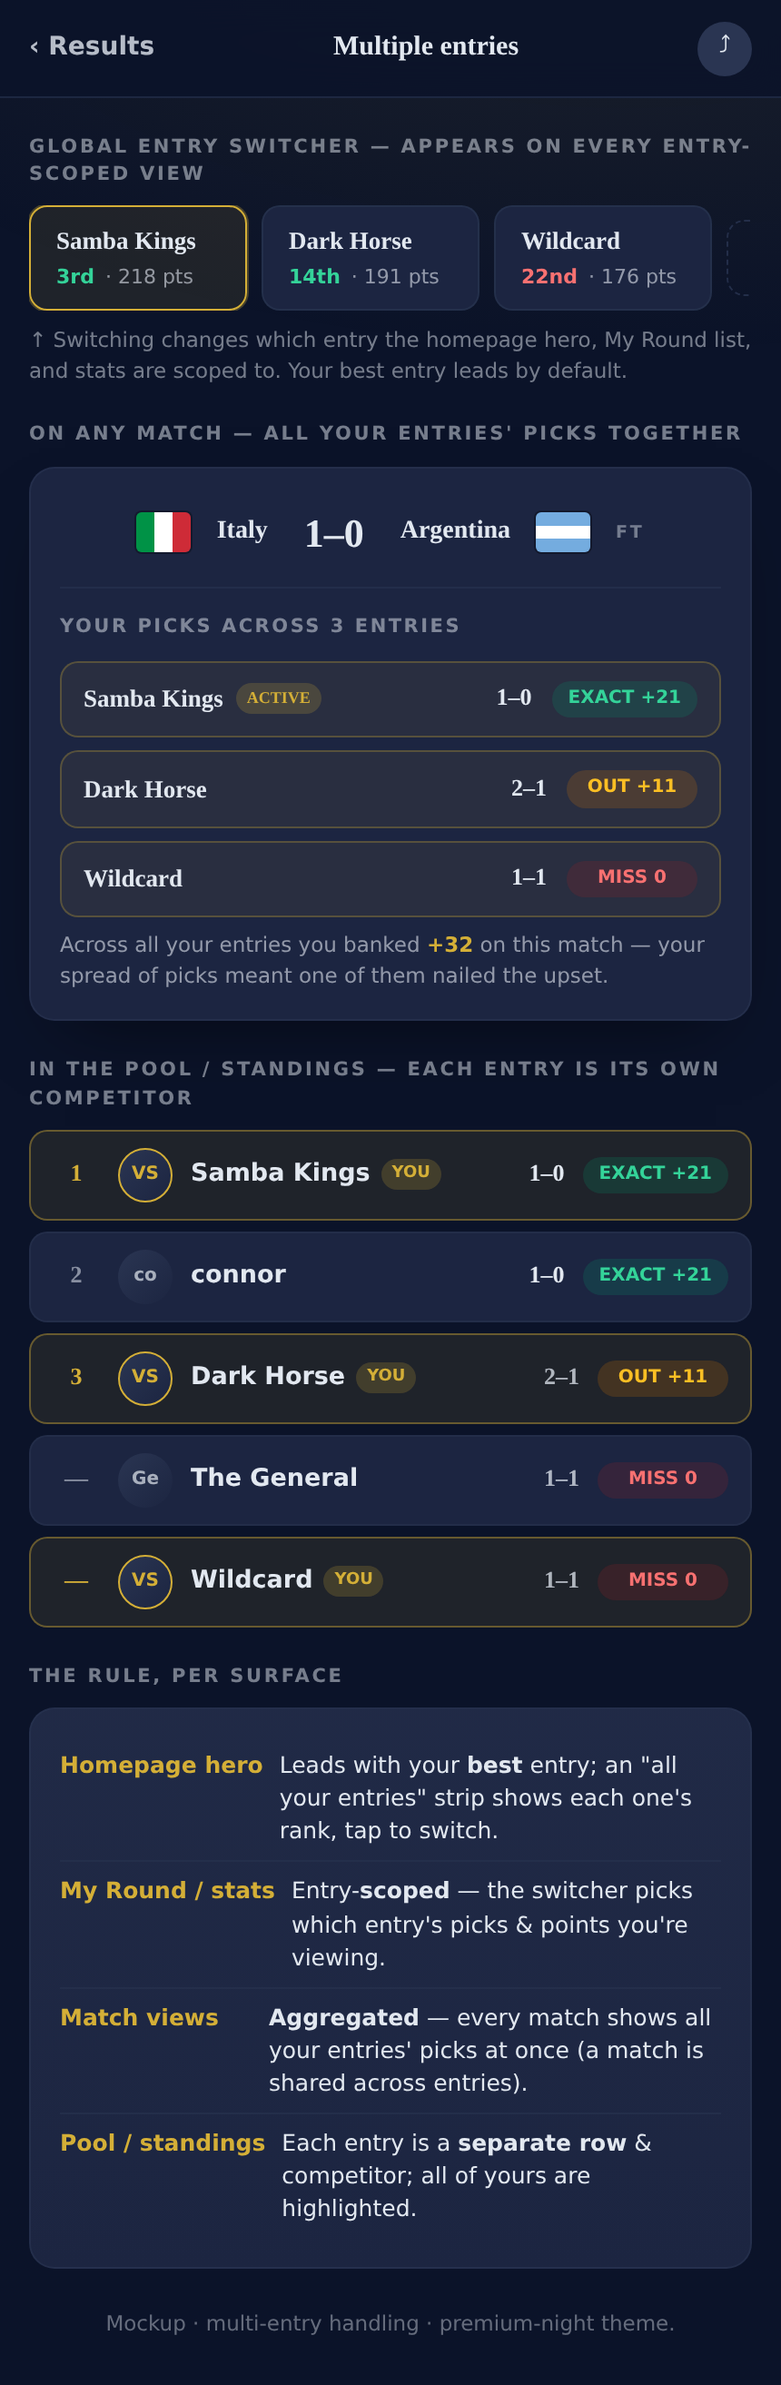
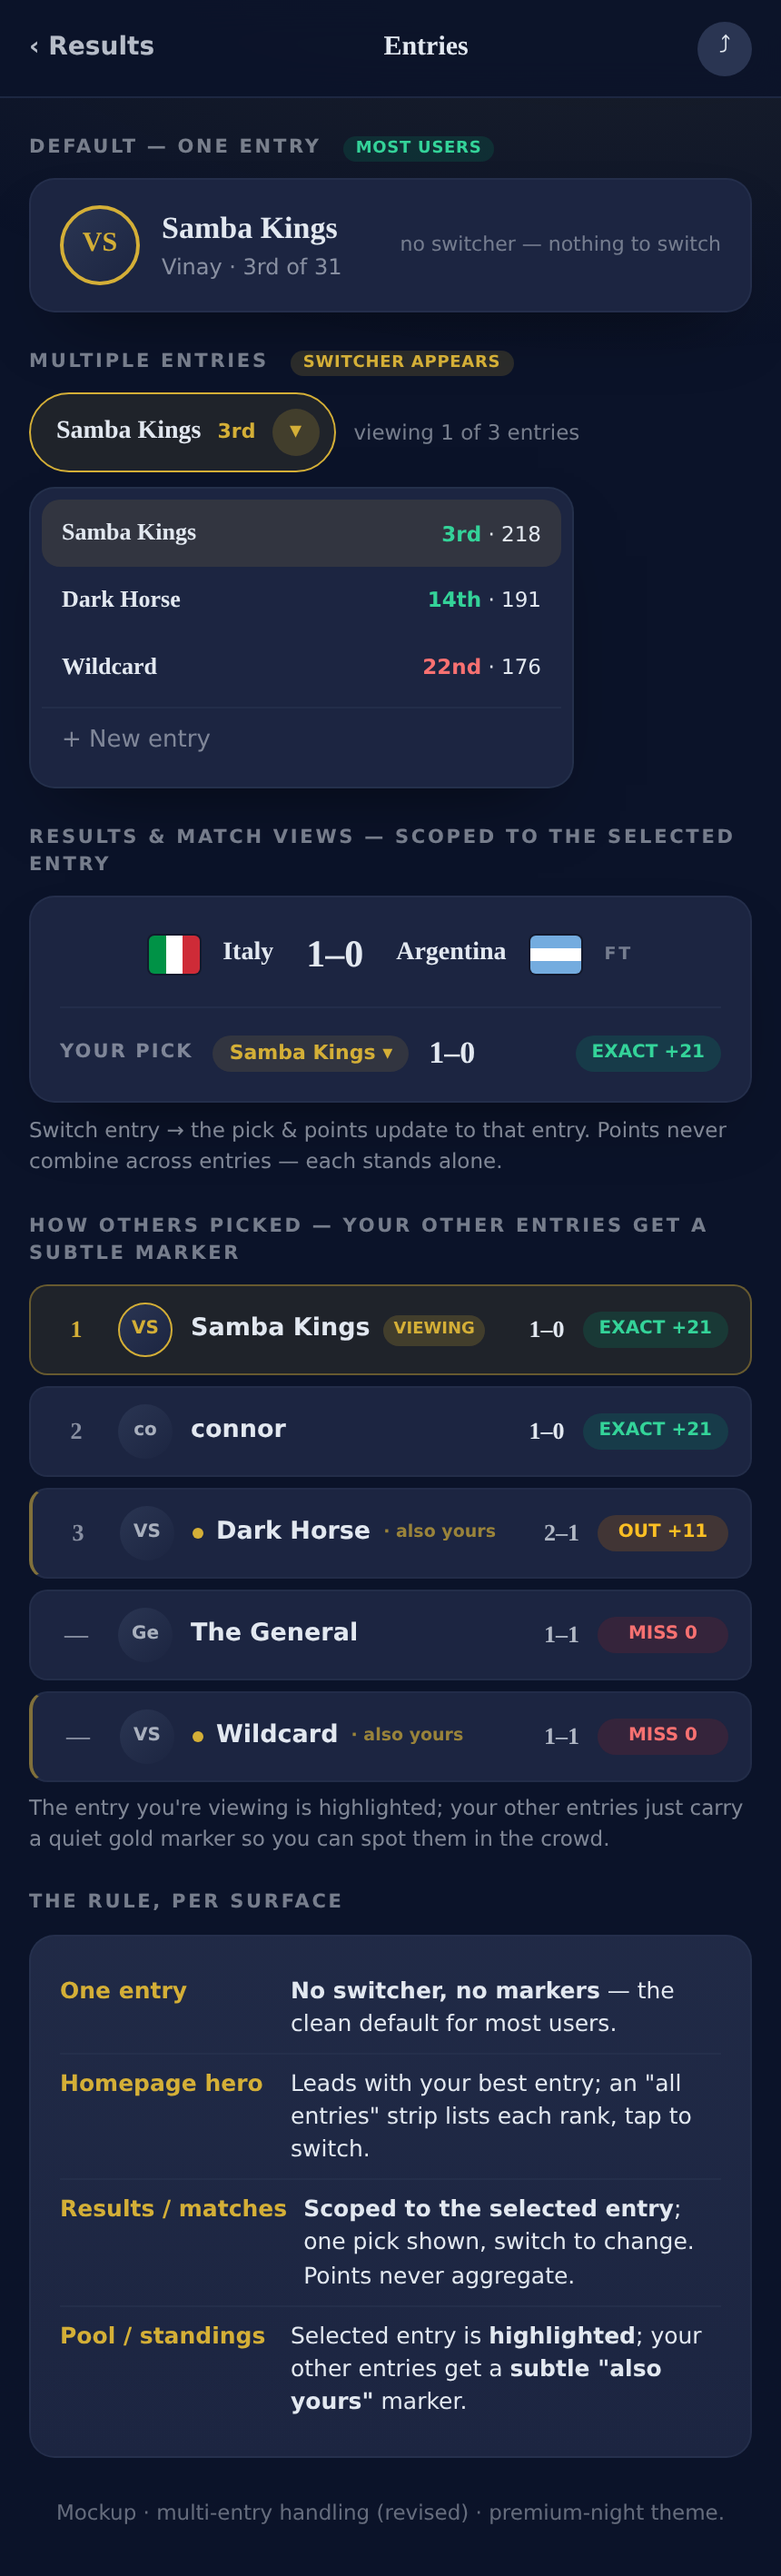
docs: revise multi-entry handling per feedback
Single entry is the clean default (no switcher/markers via
isSingleEntryMode). Points never aggregate. Results/match views are
scoped to a selected entry with an easy switcher. In the pool, the
viewed entry is highlighted while your other entries get only a subtle
'also yours' marker.

https://claude.ai/code/session_014fRmQ6eVNFy7joCpvavqqK

diff --git a/docs/homepage-mockups/multi-entry.html b/docs/homepage-mockups/multi-entry.html
@@ -1,11 +1,13 @@
 <!DOCTYPE html>
-<!-- Mockup ONLY — how MULTIPLE ENTRIES per user resolve across the views.
-     Shows: a global entry switcher, a "your picks across entries" cluster on
-     a match, and the pool list with ALL your entries highlighted (each entry
-     is its own competitor). premium-night tokens + house fonts. -->
+<!-- Mockup ONLY — multi-entry handling, REVISED.
+     Single entry is the default (no switcher). Points never aggregate —
+     each entry is its own competitor. Results are scoped to a SELECTED
+     entry with easy switching. When viewing how others picked, your OTHER
+     entries get a subtle "also yours" marker, not the loud YOU highlight.
+     premium-night tokens + house fonts. -->
 <html lang="en"><head>
 <meta charset="utf-8" /><meta name="viewport" content="width=device-width, initial-scale=1" />
-<title>Multi-entry handling (mockup)</title>
+<title>Multi-entry handling — revised (mockup)</title>
 <link rel="preconnect" href="https://fonts.googleapis.com" /><link rel="preconnect" href="https://fonts.gstatic.com" crossorigin />
 <link href="https://fonts.googleapis.com/css2?family=Manrope:wght@400;500;600;700;800&family=Inter:wght@400;500;600;700&family=JetBrains+Mono:wght@500;700&display=swap" rel="stylesheet" />
 <link rel="stylesheet" href="flags.css" />
@@ -25,102 +27,125 @@
   .appbar .back{font-size:14px;font-weight:600;opacity:.8;} .appbar .ttl{font-family:'Manrope';font-weight:800;font-size:15px;} .appbar .ic{width:30px;height:30px;border-radius:50%;background:var(--base-300);display:grid;place-items:center;font-size:13px;}
 
   .label{font-size:10.5px;letter-spacing:.13em;text-transform:uppercase;font-weight:700;color:color-mix(in srgb,var(--content) 50%,transparent);margin:20px 0 9px;}
+  .label .tag{font-size:9px;font-weight:800;background:rgba(5,150,105,.18);color:#34d399;padding:2px 7px;border-radius:999px;margin-left:7px;letter-spacing:.04em;}
+  .label .tag.alt{background:rgba(212,175,55,.16);color:var(--primary);}
 
-  /* 1. global entry switcher */
-  .switcher{display:flex;gap:8px;overflow:hidden;align-items:center;}
-  .echip{flex:none;display:flex;flex-direction:column;gap:2px;padding:9px 14px;border-radius:var(--btn);background:var(--base-200);border:1px solid color-mix(in srgb,var(--base-300) 65%,transparent);min-width:120px;}
-  .echip.active{border-color:var(--primary);background:rgba(212,175,55,.1);box-shadow:0 0 0 1px rgba(212,175,55,.3);}
-  .echip .en{font-family:'Manrope';font-weight:800;font-size:13.5px;}
-  .echip .er{font-size:11px;color:color-mix(in srgb,var(--content) 60%,transparent);display:flex;align-items:center;gap:6px;}
-  .echip .up{color:#34d399;font-weight:700;} .echip .dn{color:#f87171;font-weight:700;}
-  .eadd{flex:none;width:42px;height:42px;border-radius:var(--btn);border:1px dashed color-mix(in srgb,var(--base-300) 80%,transparent);display:grid;place-items:center;color:color-mix(in srgb,var(--content) 45%,transparent);font-size:20px;}
-  .scope-note{font-size:11.5px;color:color-mix(in srgb,var(--content) 50%,transparent);margin-top:8px;display:flex;align-items:center;gap:6px;}
+  .card{background:var(--base-200);border:1px solid color-mix(in srgb,var(--base-300) 60%,transparent);border-radius:var(--box);padding:14px 16px;box-shadow:var(--card-shadow);}
 
-  /* card */
-  .card{background:var(--base-200);border:1px solid color-mix(in srgb,var(--base-300) 60%,transparent);border-radius:var(--box);padding:16px;box-shadow:var(--card-shadow);}
+  /* default single-entry header (no switcher) */
+  .who{display:flex;align-items:center;gap:12px;}
+  .who .ph{width:44px;height:44px;border-radius:50%;background:linear-gradient(135deg,#2a3552,#1c2541);border:2px solid var(--primary);display:grid;place-items:center;font-family:'Manrope';font-weight:800;color:var(--primary);font-size:15px;flex:none;}
+  .who .nm{font-family:'Manrope';font-weight:800;font-size:17px;}
+  .who .sub{font-size:12px;}
+  .who .single{margin-left:auto;font-size:11px;color:color-mix(in srgb,var(--content) 45%,transparent);}
 
-  /* mini scoreline */
-  .mini-score{display:flex;align-items:center;justify-content:center;gap:14px;padding:4px 0 14px;border-bottom:1px solid color-mix(in srgb,var(--base-300) 55%,transparent);margin-bottom:14px;}
-  .mini-score .fi{width:30px;height:22px;border-radius:3px;box-shadow:0 0 0 1px rgba(0,0,0,.3);}
+  /* entry switch control (multi) */
+  .entrybar{display:flex;align-items:center;gap:10px;}
+  .entrybar .cur{display:flex;align-items:center;gap:9px;background:rgba(212,175,55,.1);border:1px solid var(--primary);border-radius:999px;padding:8px 8px 8px 14px;}
+  .entrybar .cur .en{font-family:'Manrope';font-weight:800;font-size:14px;}
+  .entrybar .cur .rk{font-size:11px;color:var(--primary);font-weight:700;}
+  .entrybar .cur .sw{width:26px;height:26px;border-radius:50%;background:rgba(212,175,55,.2);display:grid;place-items:center;color:var(--primary);font-size:13px;}
+  .entrybar .count{font-size:11.5px;color:color-mix(in srgb,var(--content) 50%,transparent);}
+  /* dropdown preview */
+  .dd{margin-top:8px;background:var(--base-200);border:1px solid color-mix(in srgb,var(--base-300) 65%,transparent);border-radius:var(--box);padding:6px;box-shadow:var(--card-shadow);max-width:300px;}
+  .ddrow{display:flex;align-items:center;justify-content:space-between;padding:9px 11px;border-radius:var(--btn);font-size:13px;}
+  .ddrow.on{background:rgba(212,175,55,.12);} .ddrow .en{font-family:'Manrope';font-weight:700;} .ddrow .rk{font-size:11.5px;}
+  .ddrow .up{color:#34d399;font-weight:700;} .ddrow .dn{color:#f87171;font-weight:700;}
+  .ddrow.add{color:color-mix(in srgb,var(--content) 50%,transparent);border-top:1px solid color-mix(in srgb,var(--base-300) 50%,transparent);margin-top:3px;border-radius:0;}
+
+  /* match row (entry-scoped single pick) */
+  .mini-score{display:flex;align-items:center;justify-content:center;gap:13px;padding:2px 0 13px;border-bottom:1px solid color-mix(in srgb,var(--base-300) 55%,transparent);margin-bottom:13px;}
+  .mini-score .fi{width:28px;height:21px;border-radius:3px;box-shadow:0 0 0 1px rgba(0,0,0,.3);}
   .mini-score .t{font-family:'Manrope';font-weight:700;font-size:14px;}
-  .mini-score .sc{font-family:'Manrope';font-weight:800;font-size:22px;padding:0 6px;}
+  .mini-score .sc{font-family:'Manrope';font-weight:800;font-size:21px;padding:0 5px;}
   .mini-score .ft{font-size:9.5px;letter-spacing:.14em;font-weight:700;color:color-mix(in srgb,var(--content) 45%,transparent);}
-
-  /* your picks across entries */
-  .yourpicks .h{font-size:10.5px;letter-spacing:.12em;text-transform:uppercase;font-weight:700;color:color-mix(in srgb,var(--content) 50%,transparent);margin-bottom:10px;}
-  .epick{display:grid;grid-template-columns:1fr auto auto;gap:11px;align-items:center;padding:10px 12px;border-radius:var(--btn);background:rgba(212,175,55,.07);border:1px solid rgba(212,175,55,.28);margin-bottom:7px;}
-  .epick .en{font-family:'Manrope';font-weight:700;font-size:13.5px;display:flex;align-items:center;gap:7px;}
-  .badge-you{font-size:9px;font-weight:800;background:rgba(212,175,55,.2);color:var(--primary);padding:2px 6px;border-radius:999px;}
-  .epick .pk{font-family:'JetBrains Mono';font-weight:700;font-size:13px;}
-  .mini-pill{font-size:10px;font-weight:800;border-radius:999px;padding:3px 9px;min-width:72px;text-align:center;}
+  .yp{display:flex;align-items:center;gap:11px;}
+  .yp .lab{font-size:10.5px;letter-spacing:.1em;text-transform:uppercase;font-weight:700;color:color-mix(in srgb,var(--content) 50%,transparent);}
+  .yp .scoped{font-size:11px;color:var(--primary);font-weight:700;background:rgba(212,175,55,.12);padding:2px 9px;border-radius:999px;}
+  .yp .pk{font-family:'Manrope';font-weight:800;font-size:17px;}
+  .mini-pill{font-size:10px;font-weight:800;border-radius:999px;padding:3px 9px;min-width:72px;text-align:center;margin-left:auto;}
   .mini-pill.exact{background:rgba(5,150,105,.2);color:#34d399;} .mini-pill.out{background:rgba(217,119,6,.2);color:#fbbf24;} .mini-pill.miss{background:rgba(185,28,28,.16);color:#f87171;}
-  .combined{font-size:11.5px;margin-top:4px;color:color-mix(in srgb,var(--content) 60%,transparent);}
-  .combined b{color:var(--primary);}
 
-  /* pool with multiple of your entries highlighted */
-  .prow{display:grid;grid-template-columns:26px 30px 1fr auto auto;gap:10px;align-items:center;background:var(--base-200);border:1px solid color-mix(in srgb,var(--base-300) 50%,transparent);border-radius:var(--btn);padding:9px 12px;margin-bottom:6px;}
-  .prow.you{background:rgba(212,175,55,.1);border-color:rgba(212,175,55,.4);}
+  /* pool list with subtle "also yours" marker */
+  .prow{display:grid;grid-template-columns:26px 30px 1fr auto auto;gap:10px;align-items:center;background:var(--base-200);border:1px solid color-mix(in srgb,var(--base-300) 50%,transparent);border-radius:var(--btn);padding:9px 12px;margin-bottom:6px;position:relative;}
   .prow .rk{font-family:'Manrope';font-weight:800;font-size:13px;text-align:center;color:color-mix(in srgb,var(--content) 55%,transparent);}
-  .prow.you .rk{color:var(--primary);}
   .prow .ph{width:30px;height:30px;border-radius:50%;background:linear-gradient(135deg,#2a3552,#1c2541);display:grid;place-items:center;font-size:10px;font-weight:700;color:color-mix(in srgb,var(--content) 70%,transparent);}
-  .prow.you .ph{border:1.5px solid var(--primary);color:var(--primary);}
-  .prow .nm{font-size:13.5px;font-weight:600;display:flex;align-items:center;gap:6px;}
+  .prow .nm{font-size:13.5px;font-weight:600;display:flex;align-items:center;gap:7px;}
   .prow .pk{font-family:'JetBrains Mono';font-weight:700;font-size:13px;color:color-mix(in srgb,var(--content) 75%,transparent);} .prow .pk b{color:var(--content);}
+  /* the SELECTED entry — loud highlight */
+  .prow.you{background:rgba(212,175,55,.1);border-color:rgba(212,175,55,.4);}
+  .prow.you .rk{color:var(--primary);} .prow.you .ph{border:1.5px solid var(--primary);color:var(--primary);}
+  .badge-you{font-size:9px;font-weight:800;background:rgba(212,175,55,.2);color:var(--primary);padding:2px 6px;border-radius:999px;}
+  /* OTHER entries of mine — subtle marker only */
+  .prow.mine{border-left:2px solid rgba(212,175,55,.55);}
+  .prow.mine .dotme{width:6px;height:6px;border-radius:50%;background:var(--primary);flex:none;}
+  .tag-mine{font-size:9.5px;font-weight:700;color:color-mix(in srgb,var(--primary) 85%,transparent);opacity:.8;}
 
-  .principle{background:linear-gradient(180deg,color-mix(in srgb,var(--base-300) 30%,var(--base-200)),var(--base-200));border:1px solid color-mix(in srgb,var(--base-300) 60%,transparent);border-radius:var(--box);padding:15px 16px;font-size:12.5px;}
+  .principle{background:linear-gradient(180deg,color-mix(in srgb,var(--base-300) 30%,var(--base-200)),var(--base-200));border:1px solid color-mix(in srgb,var(--base-300) 60%,transparent);border-radius:var(--box);padding:14px 16px;font-size:12.5px;}
   .principle .pr{display:flex;gap:9px;padding:7px 0;} .principle .pr+.pr{border-top:1px solid color-mix(in srgb,var(--base-300) 50%,transparent);}
-  .principle .k{font-weight:800;color:var(--primary);min-width:106px;flex:none;}
+  .principle .k{font-weight:800;color:var(--primary);min-width:118px;flex:none;}
   .footer-note{text-align:center;font-size:11.5px;color:color-mix(in srgb,var(--content) 42%,transparent);margin:22px 0 26px;}
 </style></head>
 <body><main>
-  <div class="appbar"><div class="wrap inner"><span class="back">‹ Results</span><span class="ttl">Multiple entries</span><span class="ic">⤴</span></div></div>
+  <div class="appbar"><div class="wrap inner"><span class="back">‹ Results</span><span class="ttl">Entries</span><span class="ic">⤴</span></div></div>
   <div class="wrap">
 
-    <!-- 1. switcher -->
-    <div class="label">Global entry switcher — appears on every entry-scoped view</div>
-    <div class="switcher">
-      <div class="echip active"><span class="en">Samba Kings</span><span class="er"><span class="up">3rd</span> · 218 pts</span></div>
-      <div class="echip"><span class="en">Dark Horse</span><span class="er"><span class="up">14th</span> · 191 pts</span></div>
-      <div class="echip"><span class="en">Wildcard</span><span class="er"><span class="dn">22nd</span> · 176 pts</span></div>
-      <div class="eadd">+</div>
+    <!-- DEFAULT: single entry -->
+    <div class="label">Default — one entry <span class="tag">most users</span></div>
+    <div class="card">
+      <div class="who">
+        <div class="ph">VS</div>
+        <div><div class="nm">Samba Kings</div><div class="sub muted">Vinay · 3rd of 31</div></div>
+        <div class="single">no switcher — nothing to switch</div>
+      </div>
     </div>
-    <div class="scope-note">↑ Switching changes which entry the homepage hero, My Round list, and stats are scoped to. Your best entry leads by default.</div>
 
-    <!-- 2. your picks across entries on a match -->
-    <div class="label">On any match — all your entries' picks together</div>
+    <!-- MULTI: switch control -->
+    <div class="label">Multiple entries <span class="tag alt">switcher appears</span></div>
+    <div class="entrybar">
+      <div class="cur"><span class="en">Samba Kings</span><span class="rk">3rd</span><span class="sw">▾</span></div>
+      <span class="count">viewing 1 of 3 entries</span>
+    </div>
+    <div class="dd">
+      <div class="ddrow on"><span class="en">Samba Kings</span><span class="rk"><span class="up">3rd</span> · 218</span></div>
+      <div class="ddrow"><span class="en">Dark Horse</span><span class="rk"><span class="up">14th</span> · 191</span></div>
+      <div class="ddrow"><span class="en">Wildcard</span><span class="rk"><span class="dn">22nd</span> · 176</span></div>
+      <div class="ddrow add"><span>+ New entry</span></div>
+    </div>
+
+    <!-- RESULTS: entry-scoped single pick -->
+    <div class="label">Results &amp; match views — scoped to the selected entry</div>
     <div class="card">
       <div class="mini-score">
-        <span class="fi fi-it"></span><span class="t">Italy</span>
-        <span class="sc">1–0</span>
-        <span class="t">Argentina</span><span class="fi fi-ar"></span>
-        <span class="ft">FT</span>
+        <span class="fi fi-it"></span><span class="t">Italy</span><span class="sc">1–0</span><span class="t">Argentina</span><span class="fi fi-ar"></span><span class="ft">FT</span>
       </div>
-      <div class="yourpicks">
-        <div class="h">Your picks across 3 entries</div>
-        <div class="epick"><span class="en">Samba Kings <span class="badge-you">ACTIVE</span></span><span class="pk">1–0</span><span class="mini-pill exact">EXACT +21</span></div>
-        <div class="epick"><span class="en">Dark Horse</span><span class="pk">2–1</span><span class="mini-pill out">OUT +11</span></div>
-        <div class="epick"><span class="en">Wildcard</span><span class="pk">1–1</span><span class="mini-pill miss">MISS 0</span></div>
-        <div class="combined">Across all your entries you banked <b>+32</b> on this match — your spread of picks meant one of them nailed the upset.</div>
+      <div class="yp">
+        <div><div class="lab">Your pick</div></div>
+        <span class="scoped">Samba Kings ▾</span>
+        <span class="pk">1–0</span>
+        <span class="mini-pill exact">EXACT +21</span>
       </div>
     </div>
+    <p class="muted" style="font-size:11.5px;margin-top:7px;">Switch entry → the pick &amp; points update to that entry. Points never combine across entries — each stands alone.</p>
 
-    <!-- 3. pool with all your entries highlighted -->
-    <div class="label">In the pool / standings — each entry is its own competitor</div>
-    <div class="prow you"><div class="rk">1</div><div class="ph">VS</div><div class="nm">Samba Kings <span class="badge-you">YOU</span></div><div class="pk"><b>1–0</b></div><span class="mini-pill exact">EXACT +21</span></div>
+    <!-- POOL: selected entry loud, other entries subtle -->
+    <div class="label">How others picked — your other entries get a subtle marker</div>
+    <div class="prow you"><div class="rk">1</div><div class="ph">VS</div><div class="nm">Samba Kings <span class="badge-you">VIEWING</span></div><div class="pk"><b>1–0</b></div><span class="mini-pill exact">EXACT +21</span></div>
     <div class="prow"><div class="rk">2</div><div class="ph">co</div><div class="nm">connor</div><div class="pk"><b>1–0</b></div><span class="mini-pill exact">EXACT +21</span></div>
-    <div class="prow you"><div class="rk">3</div><div class="ph">VS</div><div class="nm">Dark Horse <span class="badge-you">YOU</span></div><div class="pk">2–1</div><span class="mini-pill out">OUT +11</span></div>
+    <div class="prow mine"><div class="rk">3</div><div class="ph">VS</div><div class="nm"><span class="dotme"></span>Dark Horse <span class="tag-mine">· also yours</span></div><div class="pk">2–1</div><span class="mini-pill out">OUT +11</span></div>
     <div class="prow"><div class="rk">—</div><div class="ph">Ge</div><div class="nm">The General</div><div class="pk">1–1</div><span class="mini-pill miss">MISS 0</span></div>
-    <div class="prow you"><div class="rk">—</div><div class="ph">VS</div><div class="nm">Wildcard <span class="badge-you">YOU</span></div><div class="pk">1–1</div><span class="mini-pill miss">MISS 0</span></div>
+    <div class="prow mine"><div class="rk">—</div><div class="ph">VS</div><div class="nm"><span class="dotme"></span>Wildcard <span class="tag-mine">· also yours</span></div><div class="pk">1–1</div><span class="mini-pill miss">MISS 0</span></div>
+    <p class="muted" style="font-size:11.5px;margin-top:4px;">The entry you're viewing is highlighted; your other entries just carry a quiet gold marker so you can spot them in the crowd.</p>
 
     <!-- principle -->
     <div class="label">The rule, per surface</div>
     <div class="principle">
-      <div class="pr"><span class="k">Homepage hero</span><span>Leads with your <b>best</b> entry; an "all your entries" strip shows each one's rank, tap to switch.</span></div>
-      <div class="pr"><span class="k">My Round / stats</span><span>Entry-<b>scoped</b> — the switcher picks which entry's picks &amp; points you're viewing.</span></div>
-      <div class="pr"><span class="k">Match views</span><span><b>Aggregated</b> — every match shows all your entries' picks at once (a match is shared across entries).</span></div>
-      <div class="pr"><span class="k">Pool / standings</span><span>Each entry is a <b>separate row</b> &amp; competitor; all of yours are highlighted.</span></div>
+      <div class="pr"><span class="k">One entry</span><span><b>No switcher, no markers</b> — the clean default for most users.</span></div>
+      <div class="pr"><span class="k">Homepage hero</span><span>Leads with your best entry; an "all entries" strip lists each rank, tap to switch.</span></div>
+      <div class="pr"><span class="k">Results / matches</span><span><b>Scoped to the selected entry</b>; one pick shown, switch to change. Points never aggregate.</span></div>
+      <div class="pr"><span class="k">Pool / standings</span><span>Selected entry is <b>highlighted</b>; your other entries get a <b>subtle "also yours"</b> marker.</span></div>
     </div>
 
-    <p class="footer-note">Mockup · multi-entry handling · premium-night theme.</p>
+    <p class="footer-note">Mockup · multi-entry handling (revised) · premium-night theme.</p>
   </div>
 </main></body></html>
